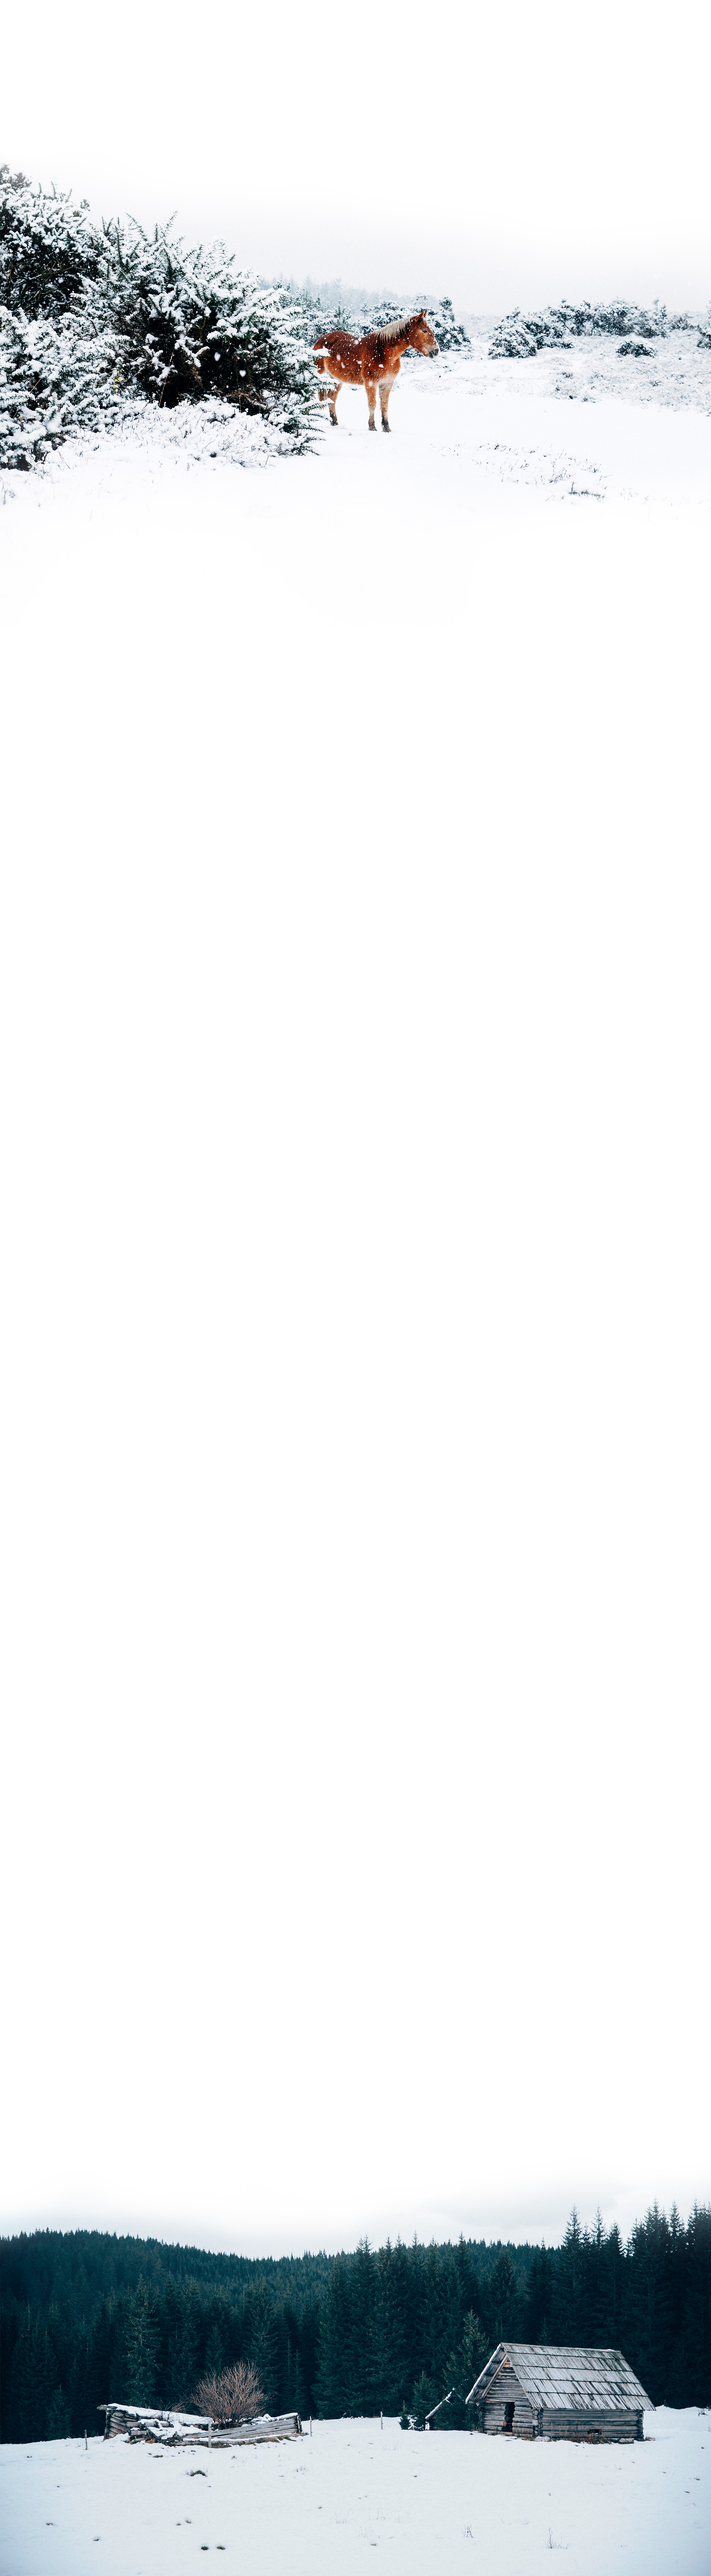
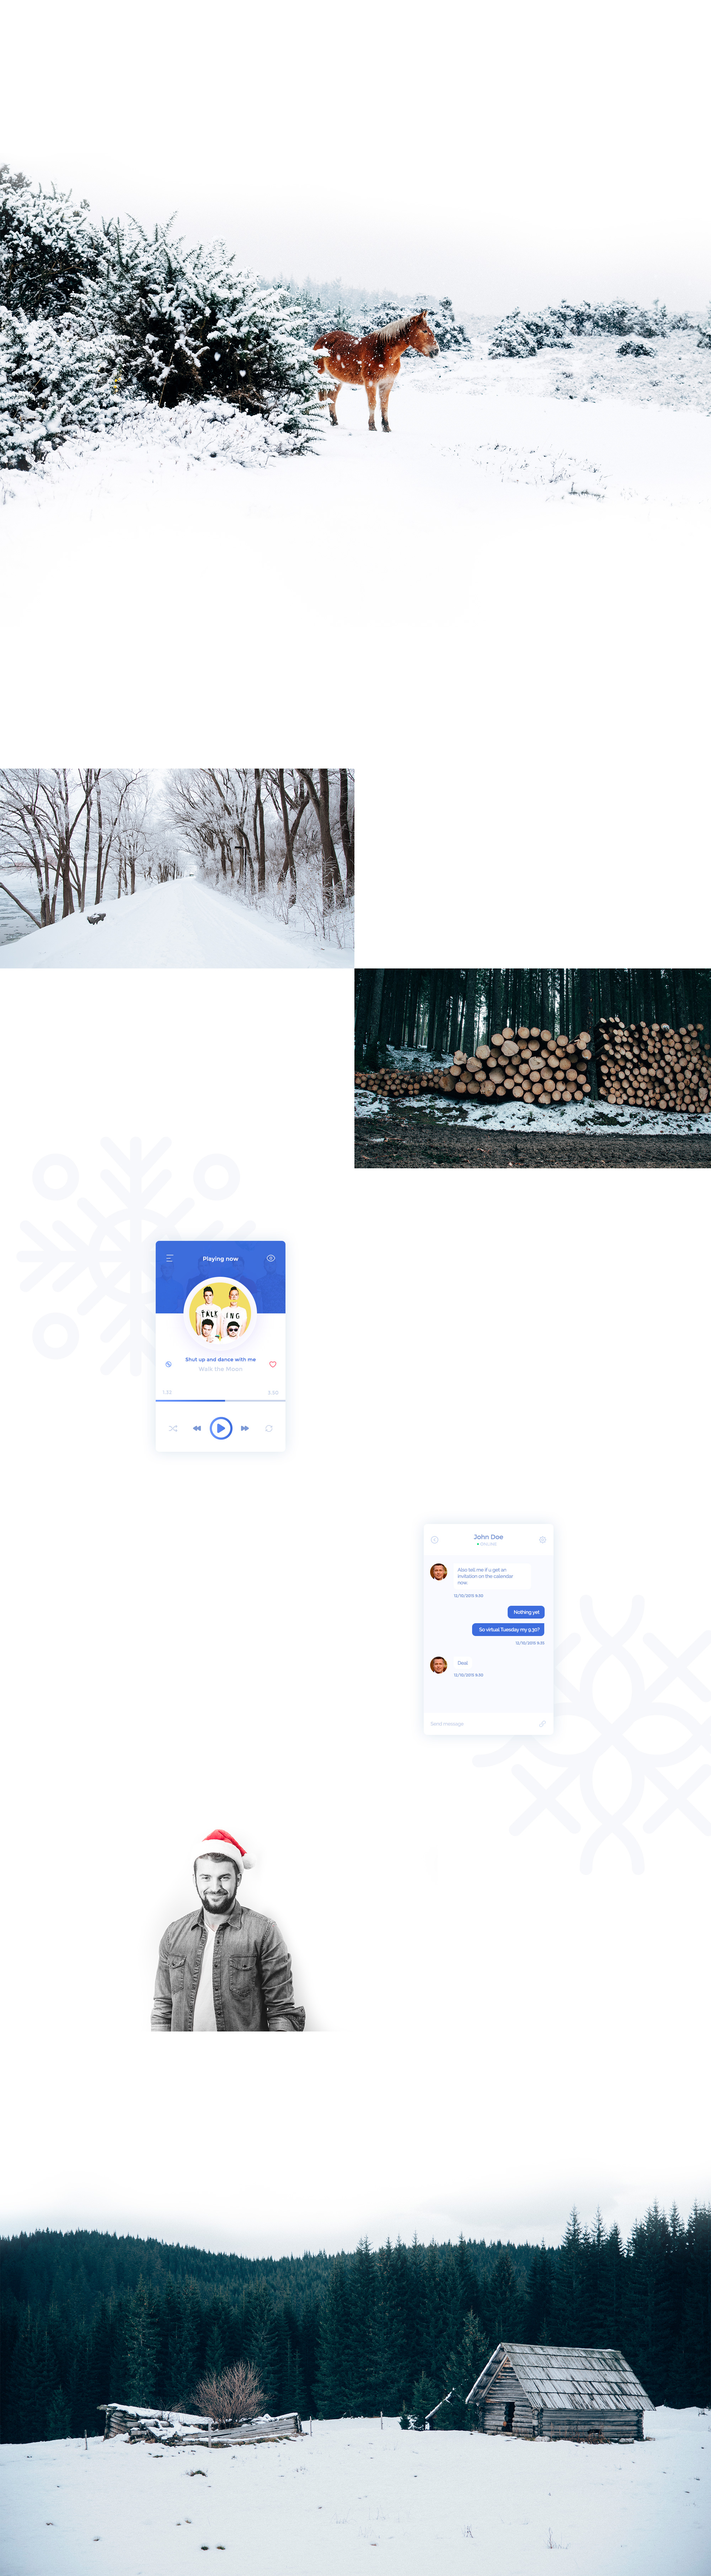
Верстка PixelPerfect / Оптимизация кода

diff --git a/index.html b/index.html
@@ -15,12 +15,13 @@
                         <li class="correction1"><a href="#"><img src="img/menu.png" alt="Menu" width="18" height="16"></a></li>
                         <li><img src="img/crios_logo.png" alt="Crios" width="194" height="60"></li>
                         <li class="correction2"><a href="#"><img src="img/search.png" alt="Search" width="21" height="21"></a></li>
-                    </ul>  
+                    </ul>
                 </nav>
             </div>
         </header>
         
         <main class="container">
+            
                 <div class="promo">
                     <h2>Simple PSD template with cool stuff</h2>
                     <p>Lorem ipsum dolor sit amet, consectetur adipiscing elit.</p>
@@ -37,65 +38,60 @@
                     <div class="features-item">
                         <img src="img/1.png" width="50" height="47" alt="features-item-1">
                         <h3>Lorem ipsum dolor sit amet</h3>
-                        <p>Suspendisse vel leo efficitur,  venenatis est ut, tincidunt nib</p>
+                        <p>Suspendisse vel leo efficitur,<br>venenatis est ut, tincidunt nibh.</p>
                     </div>
                 
                     <div class="features-item">
                         <img src="img/2.png" width="48" height="48" alt="features-item-2">
                         <h3>Lorem ipsum dolor sit amet</h3>
-                        <p>Suspendisse vel leo efficitur,  venenatis est ut, tincidunt nib</p>
+                        <p>Suspendisse vel leo efficitur,<br>venenatis est ut, tincidunt nibh.</p>
                     </div>
                 
                     <div class="features-item">
                         <img src="img/3.png" width="52" height="46" alt="features-item-3">
                         <h3>Lorem ipsum dolor sit amet</h3>
-                        <p>Suspendisse vel leo efficitur,  venenatis est ut, tincidunt nib</p>
+                        <p>Suspendisse vel leo efficitur,<br>venenatis est ut, tincidunt nibh.</p>
                     </div>
                 
                     <div class="features-item">
                         <img src="img/4.png" width="45" height="47" alt="features-item-4">
                         <h3>Lorem ipsum dolor sit amet</h3>
-                        <p>Suspendisse vel leo efficitur,  venenatis est ut, tincidunt nib</p>
-                    </div>                
+                        <p>Suspendisse vel leo efficitur,<br>venenatis est ut, tincidunt nibh.</p>
+                    </div>    
                 </div>
                 
-                <a href="#">CHECK OUR OFFER</a>
+                <div class="btn"><a href="#">CHECK OUR OFFER</a></div>
                 
-                <div class="index-content">
+                <div>
                     <div class="index-content-left">
-                        <img src="img/photo-2.jpg" width="997" height="562" alt="photo-2">
                         <h2>Lorem ipsum dolor</h2>
-                        <p>Lorem ipsum dolor sit amet, consectetur adipiscing elit. Etiam tincidunt quam sed laoreet efficitur. In ultrices leo velit, nec facilisis risus elementum sed. Nullam tempus ultrices quam et tristique. Integer in iaculis eros.</p>
+                        <p>Lorem ipsum dolor sit amet, consectetur adipiscing elit.<br>Suspendisse vel leo efficitur, venenatis est ut, tincidunt nibh.<br>Suspendisse lobortis lectus vel imperdiet ullamcorper.</p>
                     </div>
                     
                     <div class="index-content-right">
                         <h2>Lorem ipsum dolor</h2>
-                        <p>Lorem ipsum dolor sit amet, consectetur adipiscing elit. Etiam tincidunt quam sed laoreet efficitur. In ultrices leo velit, nec facilisis risus elementum sed. Nullam tempus ultrices quam et tristique. Integer in iaculis eros.</p>
-                        <img src="img/photo-3.jpg" width="1003" height="562" alt="photo-3">
+                        <p>Lorem ipsum dolor sit amet, consectetur adipiscing elit.<br>Suspendisse vel leo efficitur, venenatis est ut, tincidunt nibh.<br>Suspendisse lobortis lectus vel imperdiet ullamcorper.</p>
                     </div>
                 </div>
                 
-                <div class="index-content">
+                <div>
                     <div class="index-content-up">
-                        <img src="img/photo-4.png" width="799" height="928" alt="photo-4">
                         <h2>Lorem ipsum dolor</h2>
-                        <p>Lorem ipsum dolor sit amet, consectetur adipiscing elit. Etiam tincidunt quam sed laoreet efficitur. In ultrices leo velit, nec facilisis risus elementum sed. Nullam tempus ultrices quam et tristique. Integer in iaculis eros.</p>
+                        <p>Lorem ipsum dolor sit amet, consectetur adipiscing elit.<br>Suspendisse vel leo efficitur, venenatis est ut, tincidunt nibh.<br>Suspendisse lobortis lectus vel imperdiet ullamcorper.</p>
                     </div>
             
                     <div class="index-content-down">
                         <h2>Lorem ipsum dolor</h2>
-                        <p>Lorem ipsum dolor sit amet, consectetur adipiscing elit. Etiam tincidunt quam sed laoreet efficitur. In ultrices leo velit, nec facilisis risus elementum sed. Nullam tempus ultrices quam et tristique. Integer in iaculis eros.</p>
-                        <img src="img/photo-5.png" width="966" height="1029" alt="photo-5">
+                        <p>Lorem ipsum dolor sit amet, consectetur adipiscing elit.<br>Suspendisse vel leo efficitur, venenatis est ut, tincidunt nibh.<br>Suspendisse lobortis lectus vel imperdiet ullamcorper.</p>
                     </div>
                 </div>
                 
-                <div class="index-content">
+                <div>
                     <div class="index-content-text">
-                        <img src="img/photo-6.png" width="1192" height="908" alt="photo-6">
                         <h2>Template is awesome</h2>
-                        <p>Lorem ipsum dolor sit amet, consectetur adipiscing elit. Etiam tincidunt quam sed laoreet efficitur. In ultrices leo velit, nec facilisis risus elementum sed. Nullam tempus ultrices quam et tristique. Integer in iaculis eros.</p>
-                        <p>John Doe</p>
-                        <p>CEO at Crios.com </p>
+                        <p>Lorem ipsum dolor sit amet, consectetur adipiscing elit.<br>Suspendisse vel leo efficitur, venenatis est ut, tincidunt nibh.<br>Suspendisse lobortis lectus vel imperdiet ullamcorper.</p>
+                        <p class="quote1">John Doe</p>
+                        <p class="quote2">CEO at Crios.com </p>
                     </div>
                 </div>           
         </main>
@@ -105,8 +101,8 @@
             <div class="container">
                 <p>Lorem ipsum dolor sit amet, consectetur adipiscing elit.</p>
                 <h2>Lorem ipsum dolor sit amet</h2>
-                <a href="#">SYMU.CO/FREEBIES</a>
+                <a href="#">SYMU.CO / FREEBIES</a>
             </div>
-        </footer>    
+        </footer>
     </body>
 </html>

diff --git a/css/style.css b/css/style.css
@@ -3,9 +3,6 @@ body {
     padding: 0;
     margin: 0;
     font-family: 'Montserrat', sans-serif;
-    font-size: 16px;
-    color: #4b5863;
-    line-height: 36px;
     background-image: url(../img/background-image.jpg);
     background-repeat: no-repeat;
     width: 2000px;
@@ -20,14 +17,20 @@ body {
 
 h2 {
     font-size: 48px;
-    color: black;
-    text-align: center;
     margin: 0;
 }
 
+h3 {
+    font-size: 18px;
+    text-align: center;
+    margin: 0;
+    padding-top: 38px;
+    padding-bottom: 40px;
+}
+
 .main-navigation {
-    padding-top: 57px;
-    padding-bottom: 262px;
+    padding-top: 55px;
+    padding-bottom: 246px;
 }
 
 .main-navigation ul {
@@ -35,7 +38,6 @@ h2 {
     display: flex;
     flex-direction: row;
     width: 1470px;
-    justify-content: center;
     margin: 0;
     padding: 0;
 }
@@ -46,24 +48,28 @@ h2 {
 
 .correction1 {
     margin: 0;
-    padding: 21px 578px 21px 15px;
+    padding: 21px 600px 21px 36px;
 }
 
 .correction2 {
     margin: 0;
-    padding: 21px 15px 21px 578px;
+    padding: 19px 15px 21px 595px;
 }
 
 .promo {
-    text-align: center;
+    margin: 0;
+    padding: 0;
 }
 
 
 .promo p {
     font-size: 18px;
     line-height: 18px;
-    padding-top: 26px;
-    padding-bottom: 106px;
+    padding-top: 23px;
+    padding-bottom: 100px;
+    margin: 0;
+    text-align: center;
+    opacity: 0.25;
 }
 
 .promo a {
@@ -72,28 +78,169 @@ h2 {
     line-height: 18px;
     font-weight: bold;
     color: #43a9ff;
+    margin: 0;
+    padding-left: 677px;
+}
+
+.promo h2 {
+    padding-left: 302px;
+    letter-spacing: 0.6px;
+    
 }
 
 .features-text p {
     font-size: 18px;
     line-height: 18px;
-    padding-bottom: 24px;
+    padding-bottom: 10px;
     margin: 0;
     text-align: center;
+    opacity: 0.25;
 }
 
 .features-text {
-    padding-top: 946px;
+    padding-top: 939px;
 }
 
-.features-text p {
-    padding-bottom: 24px;
-}
 
 .features-text h2 {
-    padding-bottom:  100px;
+    padding-bottom:  108px;
+    text-align: center;
 }
 
-.main-footer {
-    padding-top: 135px;
+.features {
+    flex-direction: row;
+    display: flex;
+    justify-content: center;
+}
+
+.features-item {
+    text-align: center;
+    padding-right: 60px;
+    padding-left: 50px;
+}
+
+.features-item p {
+    font-size: 14px;
+    margin: 0;
+    line-height: 24px;
+    padding-bottom: 85px;
+    opacity: 0.35;
+}
+
+.btn a {
+    font-size: 14px;
+    font-weight: bold;
+    text-decoration: none;
+    color: #43a9ff;
+    margin: 0;
+    padding-left: 680px;
+}
+
+.index-content-left h2 {
+    padding-top: 323px;
+    padding-left: 861px;
+    padding-bottom: 31px;
+}
+
+.index-content-left p {
+    padding-left: 867px;
+    margin: 0;
+    font-size: 16px;
+    line-height: 36px;
+    color: #4b5863;
+    opacity: 0.35;
+}
+
+.index-content-right h2 {
+    padding-top: 365px;
+    padding-left: 10px; 
+}
+
+.index-content-right p {
+    padding-top: 15px;
+    padding-left: 14px;
+    font-size: 16px;
+    line-height: 36px;
+    color: #4b5863;
+    opacity: 0.35;
+}
+
+.index-content-up h2 {
+    padding-top: 550px;
+    padding-left: 765px;
+    color: #43a9ff;
+}
+
+.index-content-up p {
+    padding-top: 17px;
+    padding-left: 768px;
+    font-size: 16px;
+    line-height: 36px;
+    color: #4b5863;
+    opacity: 0.35;
+}
+
+.index-content-down h2 {
+    padding-top: 593px;
+    padding-left: 200px;
+    color: #43a9ff;
+}
+
+.index-content-down p {
+    padding-top: 17px;
+    padding-left: 203px;
+    font-size: 16px;
+    line-height: 36px;
+    color: #4b5863;
+    opacity: 0.35;
+}
+
+.index-content-text h2 {
+    padding-top: 597px;
+    padding-left: 823px;
+    letter-spacing: 0.9px;
+    color: #fe3254;
+}
+
+.index-content-text p {
+    font-size: 16px;
+    line-height: 36px;
+    color: #4b5863;
+    opacity: 0.35;
+    padding-left: 828px;
+    padding-top: 16px;
+}
+
+.index-content-text .quote1 {
+    padding-top: 40px;
+    opacity: 1;
+}
+
+.index-content-text .quote2 {
+    padding-top: 0;
+}
+
+.main-footer p {
+    padding-top: 197px;
+    padding-left: 470px;
+    font-size: 18px;
+    color: #4b5863;
+    opacity: 0.35;
+    margin: 0;
+}
+
+.main-footer h2 {
+    padding-top: 10px;
+    padding-left: 408px;
+    letter-spacing: 0.6px;
+    padding-bottom: 104px;
+}
+
+.main-footer a {
+    text-decoration: none;
+    color: #43a9ff;
+    font-weight: bold;
+    font-size: 14px;
+    margin: 0;
+    padding-left: 680px;
 }
